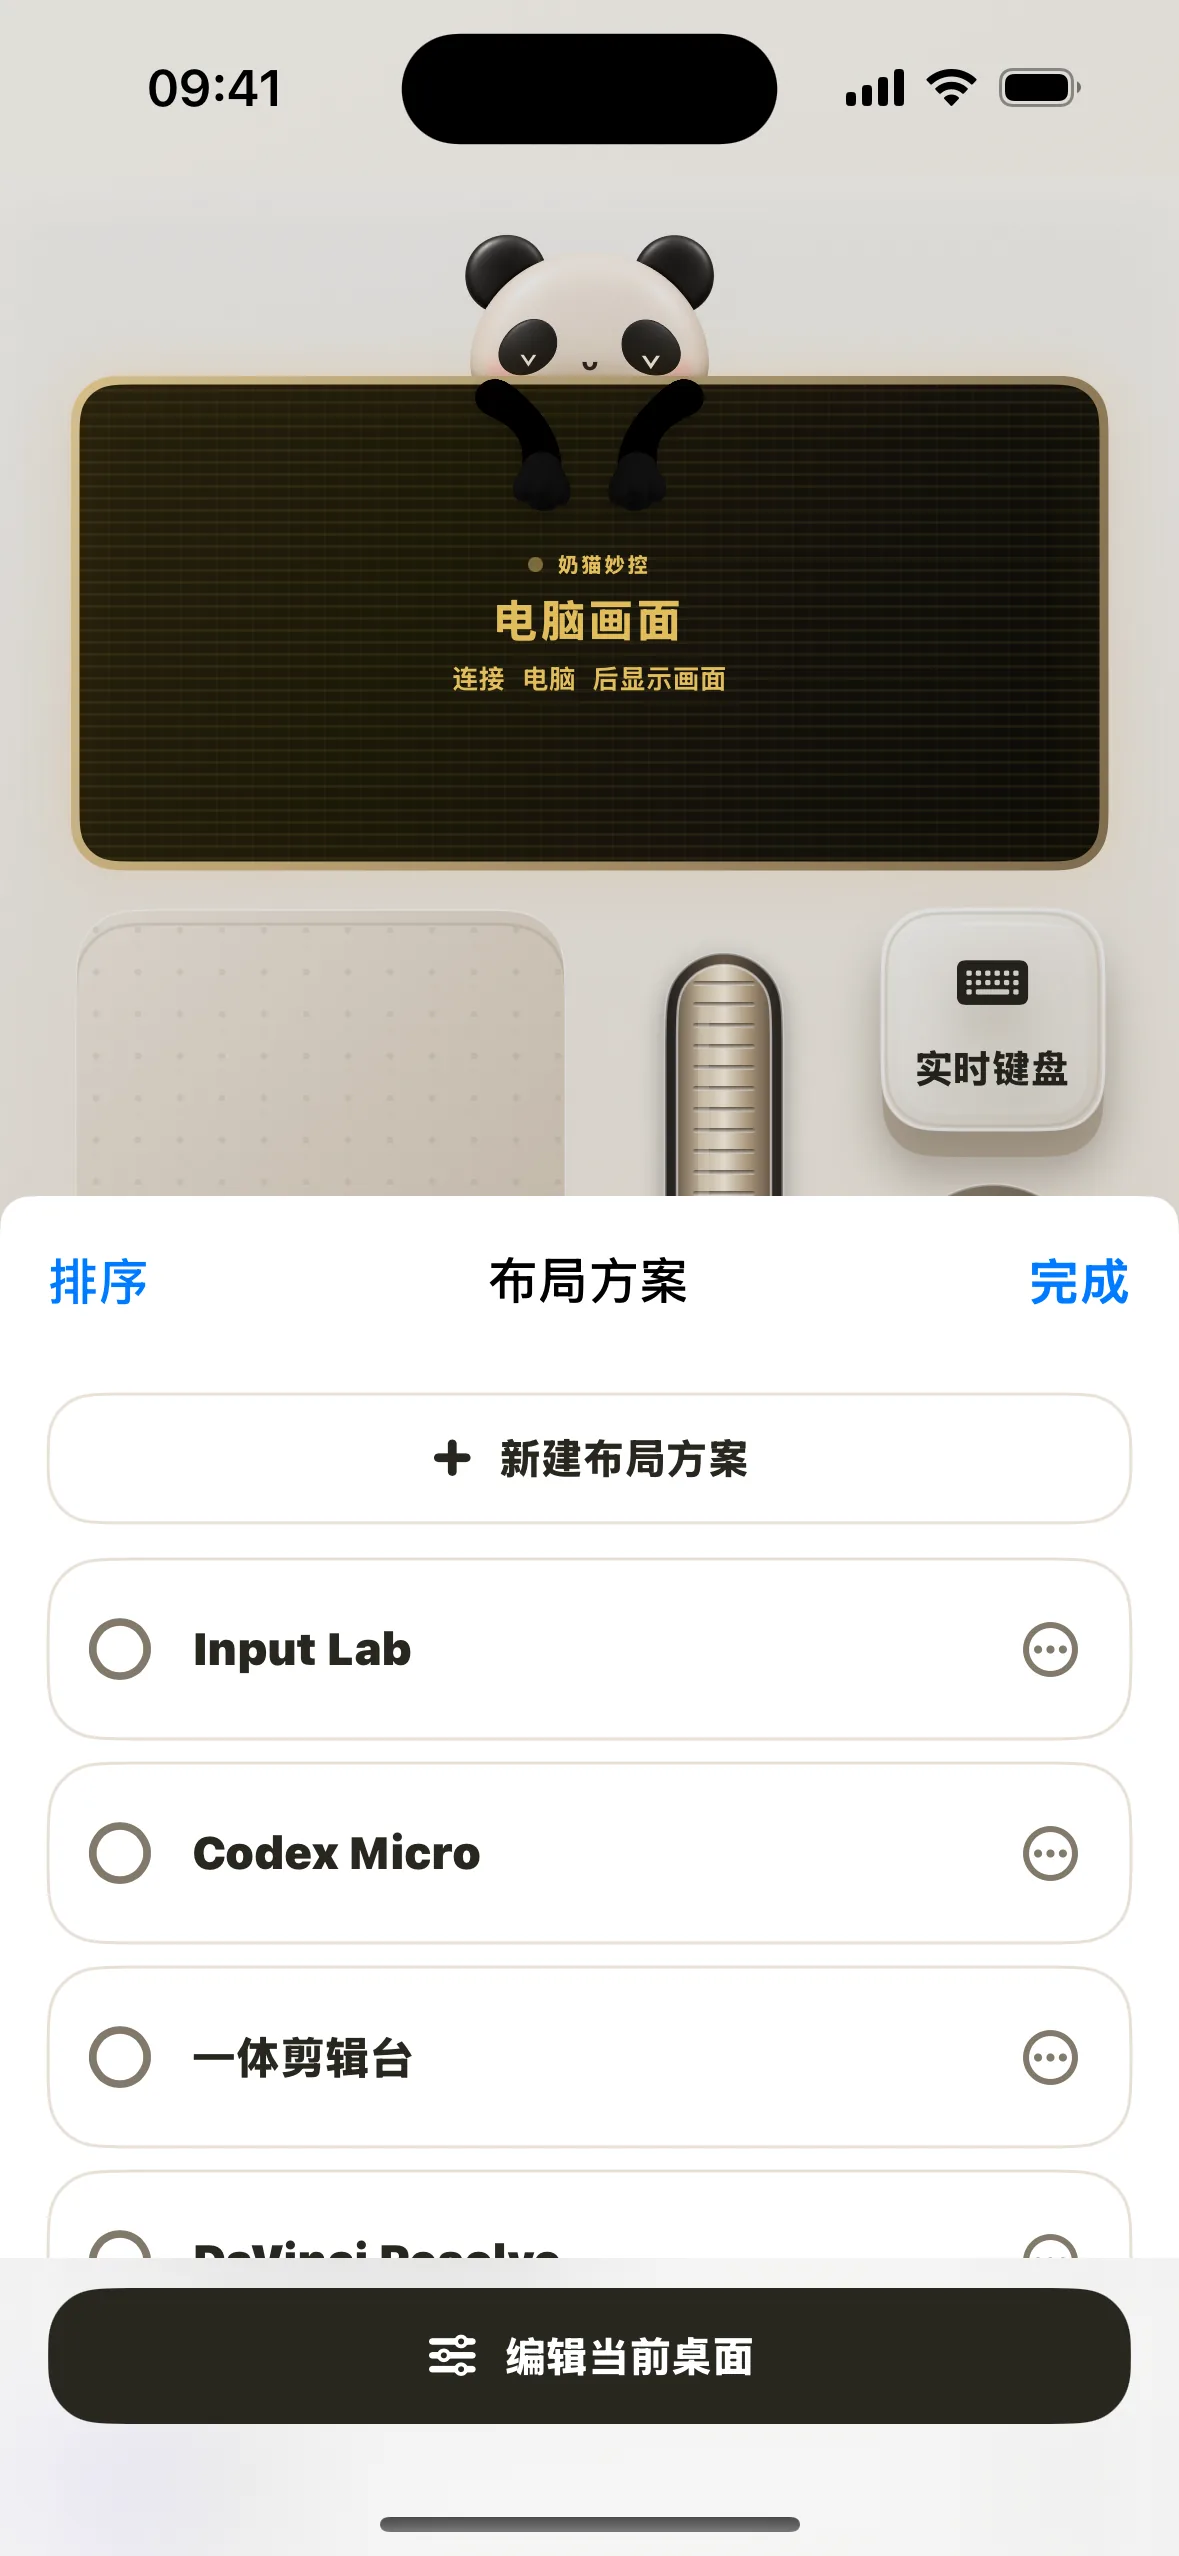
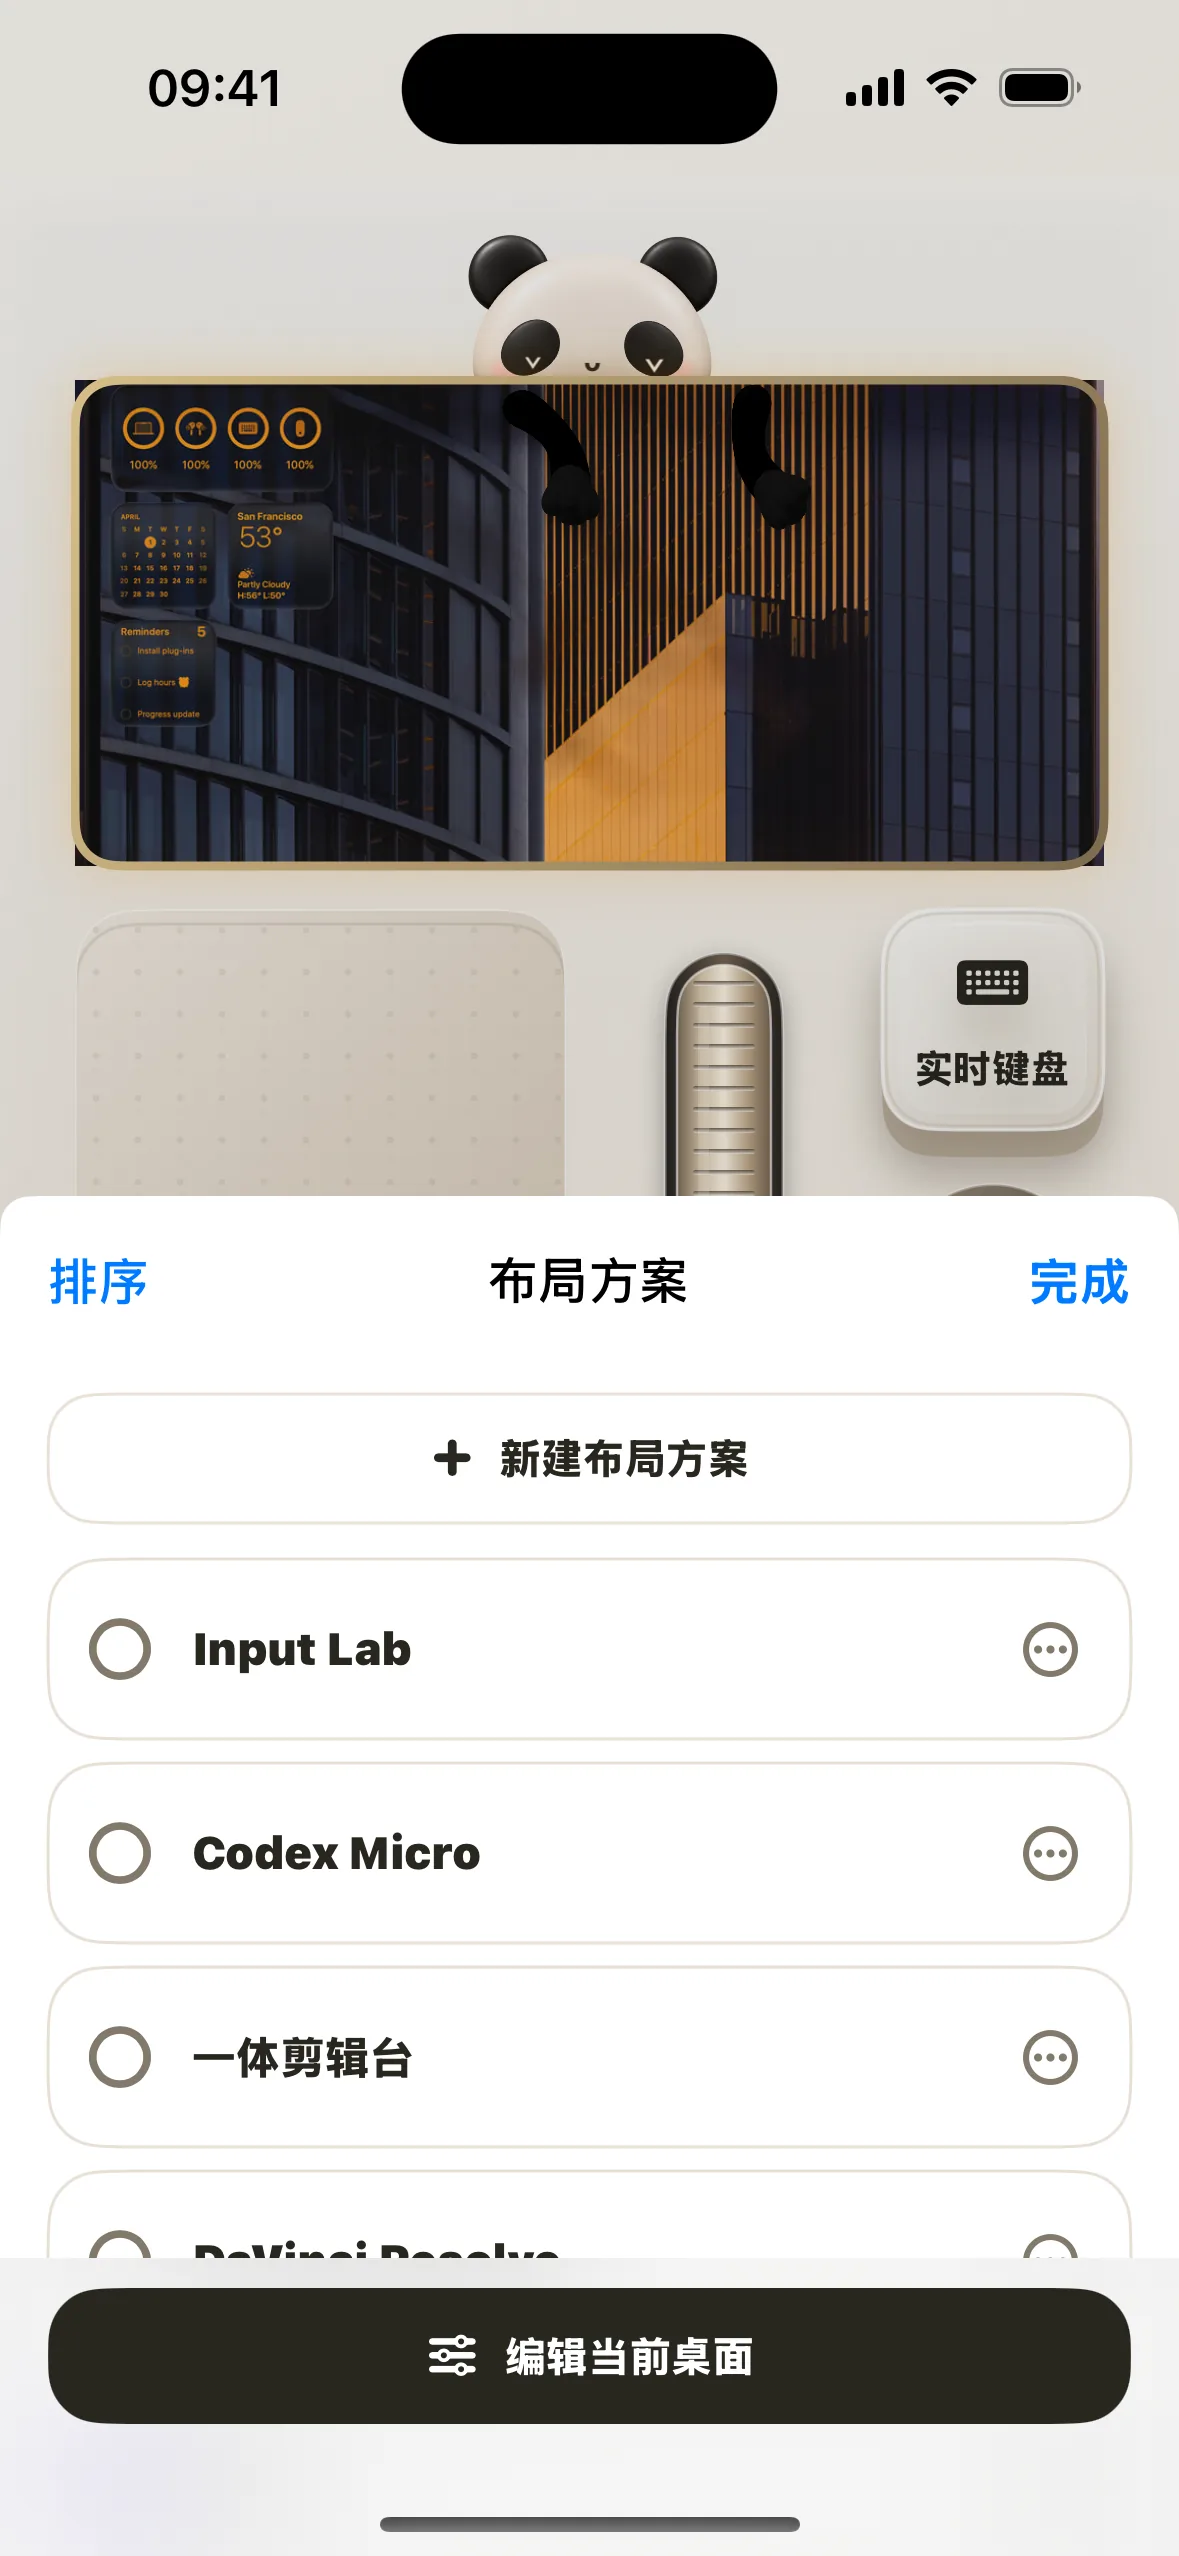
Add remote control showcase

Changed region(s): [[0.0611, 0.0927, 0.9466, 0.34]]

diff --git a/index.html b/index.html
@@ -4,21 +4,21 @@
   <meta charset="utf-8">
   <meta name="viewport" content="width=device-width, initial-scale=1">
   <meta name="theme-color" content="#f6f0e6">
-  <meta name="description" content="奶猫妙控是一款可以自由组合的掌上 Mac 小键盘，支持快捷键、触控板、旋钮、屏幕预览以及 Codex、DaVinci Resolve、PowerPoint、Apple Music 等专属小键盘">
+  <meta name="description" content="奶猫妙控是一款可以自由组合的掌上 Mac 小键盘，支持实时预览 Mac 画面、触控板、键盘输入、快捷键和常用软件专属小键盘">
   <meta name="robots" content="index, follow, max-image-preview:large">
   <meta name="application-name" content="奶猫妙控">
   <meta name="apple-mobile-web-app-title" content="奶猫妙控">
   <meta property="og:type" content="website">
   <meta property="og:site_name" content="奶猫妙控">
   <meta property="og:title" content="奶猫妙控｜自由全能小键盘，跃然掌上">
-  <meta property="og:description" content="自由组合的掌上 Mac 小键盘">
+  <meta property="og:description" content="看着 Mac 画面，用触控板、键盘和自定义小键盘继续操作">
   <meta property="og:image" content="https://cream-deck.vercel.app/assets/app-icon.png">
   <meta property="og:image:alt" content="奶猫妙控熊猫 App 图标">
   <meta property="og:url" content="https://cream-deck.vercel.app/">
   <meta property="og:locale" content="zh_CN">
   <meta name="twitter:card" content="summary_large_image">
   <meta name="twitter:title" content="奶猫妙控｜自由全能小键盘，跃然掌上">
-  <meta name="twitter:description" content="自由组合的掌上 Mac 小键盘">
+  <meta name="twitter:description" content="看着 Mac 画面，用触控板、键盘和自定义小键盘继续操作">
   <meta name="twitter:image" content="https://cream-deck.vercel.app/assets/app-icon.png">
   <link rel="canonical" href="https://cream-deck.vercel.app/">
   <link rel="preconnect" href="https://fonts.googleapis.com">
@@ -40,10 +40,12 @@
     "image": "https://cream-deck.vercel.app/assets/app-icon.png",
     "applicationCategory": "UtilitiesApplication",
     "operatingSystem": "macOS 13+, iOS 17+, iPadOS 17+",
-    "description": "自由组合的掌上 Mac 小键盘",
+    "description": "自由组合的掌上 Mac 小键盘，支持实时画面、触控板、键盘输入和常用软件专属小键盘",
     "featureList": [
       "自定义按键、旋钮与触控板",
-      "Mac 屏幕预览",
+      "Mac 实时画面与全屏查看",
+      "远程触控板、滚动与键盘输入",
+      "窗口按设备比例适配，不拉伸画面",
       "二维码配对",
       "桌面小组件与长按快捷操作",
       "Codex、DaVinci Resolve、PowerPoint 与 Apple Music 专属小键盘"
@@ -70,6 +72,11 @@
         "@type": "Question",
         "name": "为什么看不到 Mac 画面？",
         "acceptedAnswer": { "@type": "Answer", "text": "屏幕预览需要额外允许屏幕录制，普通按键、旋钮和触控板不受影响" }
+      },
+      {
+        "@type": "Question",
+        "name": "可以远程做什么？",
+        "acceptedAnswer": { "@type": "Answer", "text": "可以查看 Mac 实时画面，用触控板移动光标和滚动，也可以输入文字、使用快捷键。窗口会按设备比例适配，画面不会被拉伸" }
       }
     ]
   }
@@ -85,6 +92,7 @@
     </a>
     <nav aria-label="主导航">
       <a href="#layouts">小键盘</a>
+      <a href="#remote">远程</a>
       <a href="#how">连接</a>
       <a href="#scenarios">场景</a>
       <a href="#faq">问题</a>
@@ -153,6 +161,22 @@
         <img data-layout-image src="assets/screens/control-codex.webp" alt="奶猫妙控 Codex 控制台" width="1179" height="2556" loading="lazy">
         <figcaption><strong data-layout-name>Codex</strong><span data-layout-description>Agent、推理强度、批准、语音和发送</span></figcaption>
       </figure>
+    </section>
+
+    <section class="remote-section" id="remote">
+      <figure class="remote-shot">
+        <img src="assets/screens/control-studio.webp" alt="奶猫妙控显示 Mac 实时画面、触控板、滚轮和键盘入口" width="1179" height="2556" loading="lazy">
+      </figure>
+      <div class="remote-copy">
+        <h2>看着 Mac 画面，直接操作</h2>
+        <p>看实时画面，移动光标、滚动和输入。窗口会自动适配，不会把画面挤扁</p>
+        <div class="remote-features">
+          <article><h3>看画面</h3><p>轻点预览，展开全屏查看</p></article>
+          <article><h3>动光标</h3><p>触控、点按和滚动都能完成</p></article>
+          <article><h3>继续输入</h3><p>输入文字，也能使用常用快捷键</p></article>
+          <article><h3>不拉伸</h3><p>窗口按设备比例适配，文字和图像保持原样</p></article>
+        </div>
+      </div>
     </section>
 
     <section class="product-section" id="control">
@@ -277,6 +301,7 @@
         <details><summary>需要连同一个 Wi‑Fi 吗？</summary><p>需要，手机或平板与 Mac 要连接同一个 Wi‑Fi</p></details>
         <details><summary>Mac 为什么没有反应？</summary><p>在“系统设置 → 隐私与安全性 → 辅助功能”中允许奶猫妙控</p></details>
         <details><summary>为什么看不到 Mac 画面？</summary><p>屏幕预览需要额外允许“屏幕录制”，普通按键、旋钮和触控板不受影响</p></details>
+        <details><summary>可以远程做什么？</summary><p>可以看 Mac 实时画面，移动光标、滚动和输入。窗口会按设备比例适配，画面不会被拉伸</p></details>
         <details><summary>怎么最快打开扫码？</summary><p>长按 App 图标选择“扫码配对”，或点按奶猫妙控小组件</p></details>
         <details><summary>换一台 Mac 怎么配对？</summary><p>打开“设备”，扫描新 Mac 上的二维码</p></details>
         <details><summary>控制内容会上传吗？</summary><p>不会，控制指令只在已经配对的设备之间传输</p></details>

diff --git a/styles.css b/styles.css
@@ -34,7 +34,7 @@ a:focus-visible, button:focus-visible, summary:focus-visible, [tabindex]:focus-v
 .site-header nav a:hover { color: var(--ink); }
 .header-download { justify-self: end; padding: .65rem 1rem; border-radius: .8rem; background: var(--ink); color: white; font-size: .8125rem; font-weight: 800; }
 
-.hero, .layouts-section, .product-section, .how-section, .quick-section, .scenarios-section, .mac-section, .faq-section, .download-section {
+.hero, .layouts-section, .remote-section, .product-section, .how-section, .quick-section, .scenarios-section, .mac-section, .faq-section, .download-section {
   min-height: calc(100svh - var(--header));
   padding: clamp(2.5rem, 5.5vh, 4.25rem) max(1.5rem, calc((100vw - var(--max)) / 2));
 }
@@ -95,6 +95,16 @@ a:focus-visible, button:focus-visible, summary:focus-visible, [tabindex]:focus-v
 .layout-preview figcaption { width: min(100%, 24rem); margin-top: .85rem; display: flex; align-items: baseline; justify-content: space-between; gap: 1rem; }
 .layout-preview figcaption strong { font-size: .9rem; }
 .layout-preview figcaption span { color: var(--muted); font-size: .75rem; text-align: right; }
+
+.remote-section { display: grid; grid-template-columns: .82fr 1.18fr; gap: clamp(3rem, 8vw, 7rem); align-items: center; background: var(--blue-cream); }
+.remote-shot { display: grid; place-items: center; }
+.remote-shot img { width: auto; height: min(68svh, 38rem); max-width: 100%; object-fit: contain; border: .1rem solid rgba(33,31,26,.78); border-radius: clamp(2.3rem, 3.3vw, 3.1rem); background: #171713; box-shadow: 0 1.6rem 3.2rem rgba(48,38,23,.16); }
+.remote-copy h2 { max-width: 42rem; font-size: clamp(2.6rem, 4.1vw, 3.75rem); }
+.remote-copy > p { max-width: 39rem; margin-top: 1.15rem; color: var(--muted); font-size: 1.05rem; }
+.remote-features { margin-top: 1.65rem; border-top: .0625rem solid var(--line); }
+.remote-features article { padding: .95rem 0; display: grid; grid-template-columns: 6.5rem 1fr; gap: 1.2rem; border-bottom: .0625rem solid var(--line); }
+.remote-features h3 { font-size: 1rem; }
+.remote-features p { color: var(--muted); font-size: .85rem; }
 
 .product-section { display: grid; grid-template-columns: .82fr 1.18fr; gap: clamp(3rem, 8vw, 7rem); align-items: center; background: var(--sand); }
 .product-shot { display: grid; place-items: center; }
@@ -196,7 +206,7 @@ footer small { grid-column: 1 / -1; margin-top: 1rem; color: rgba(33,31,26,.48);
 
 @media (max-width: 56.25rem) {
   :root { --header: 4rem; }
-  .hero, .layouts-section, .product-section, .how-section, .quick-section, .scenarios-section, .mac-section, .faq-section, .download-section { min-height: 0; padding: 4.9rem 1.25rem; }
+  .hero, .layouts-section, .remote-section, .product-section, .how-section, .quick-section, .scenarios-section, .mac-section, .faq-section, .download-section { min-height: 0; padding: 4.9rem 1.25rem; }
   .site-header { min-height: var(--header); padding: .5rem .875rem; grid-template-columns: 1fr auto; }
   .site-header nav { display: none; }
   .brand img { width: 2.375rem; height: 2.375rem; border-radius: .7rem; }
@@ -218,13 +228,17 @@ footer small { grid-column: 1 / -1; margin-top: 1rem; color: rgba(33,31,26,.48);
   .hero-trackpad { display: none; }
   .hero-knob { top: 3%; right: 28%; width: 4.3rem; }
   .hero-slider { right: 25%; bottom: 13%; width: 7rem; height: 2rem; }
-  .layouts-section, .product-section, .quick-section, .mac-section { grid-template-columns: 1fr; }
+  .layouts-section, .remote-section, .product-section, .quick-section, .mac-section { grid-template-columns: 1fr; }
   .layouts-section { gap: 2.25rem; padding-top: 3.9rem; padding-bottom: 3.9rem; overflow: hidden; }
   .layout-tabs { width: 100vw; max-width: none; display: flex; margin: 1.5rem calc(50% - 50vw) 0; padding: 0 1.25rem .45rem; gap: .55rem; overflow-x: auto; scroll-padding-inline: 1.25rem; scroll-snap-type: x proximity; }
   .layout-tab { width: max-content; min-width: 9.5rem; min-height: 3.25rem; flex: none; padding: .45rem .65rem; grid-template-columns: 2rem auto; gap: .55rem; scroll-snap-align: start; }
   .layout-tab img { width: 2rem; height: 2rem; border-radius: .55rem; }
   .layout-preview { margin-top: 0; }
   .layout-preview > img { width: auto; height: min(48svh, 27rem); max-width: 72vw; }
+  .remote-section { gap: 2.25rem; }
+  .remote-copy { order: -1; text-align: center; }
+  .remote-copy > p { margin-right: auto; margin-left: auto; }
+  .remote-shot img { width: min(76vw, 18.75rem); height: auto; }
   .product-shot > img { width: min(76vw, 18.75rem); height: auto; }
   .product-shot { order: 2; }
   .how-section { grid-template-columns: 1fr; grid-template-areas: "eyebrow" "title" "art" "steps"; grid-template-rows: auto; }
@@ -253,13 +267,14 @@ footer small { grid-column: 1 / -1; margin-top: 1rem; color: rgba(33,31,26,.48);
 
 @media (max-width: 43.75rem) {
   .header-download { font-size: .75rem; }
-  .layout-copy h2, .quick-copy h2, .role-panel h2, .faq-section > h2, .product-copy h2, .how-section > h2, .mac-section h2 { font-size: clamp(2rem, 9vw, 2.45rem); }
+  .layout-copy h2, .quick-copy h2, .role-panel h2, .faq-section > h2, .remote-copy h2, .product-copy h2, .how-section > h2, .mac-section h2 { font-size: clamp(2rem, 9vw, 2.45rem); }
   .hero-key-small { display: none; }
   .hero-key-dark { left: 30%; }
   .hero-slider { right: 28%; bottom: 8%; }
   .quick-screens { margin-right: -1.25rem; grid-auto-flow: column; grid-template-columns: none; grid-auto-columns: min(75vw, 18rem); justify-content: start; gap: 1.25rem; overflow-x: auto; scroll-snap-type: x mandatory; padding: 0 1.25rem 1rem 0; }
   .quick-screens figure { scroll-snap-align: start; }
   .feature-list article { grid-template-columns: 1fr; gap: .35rem; }
+  .remote-features article { grid-template-columns: 1fr; gap: .35rem; text-align: center; }
   .role-tabs { gap: .25rem; padding: .25rem; }
   .role-tabs button { padding: .62rem .2rem; }
   .role-tabs strong { font-size: .82rem; }

diff --git a/script.js b/script.js
@@ -462,6 +462,11 @@ const initMotion = () => {
       .from('.product-copy .eyebrow, .product-copy h2, .product-copy > p', { ...reveal, y: 24, stagger: .07 }, '-=.38')
       .from('.feature-list article', { ...reveal, y: 20, stagger: .075 }, '-=.32');
 
+    gsap.timeline({ scrollTrigger: { trigger: '.remote-section', start: 'top 76%', once: true } })
+      .from('.remote-shot', { ...reveal, x: desktop ? -48 : 0, rotation: -2 })
+      .from('.remote-copy h2, .remote-copy > p', { ...reveal, y: 24, stagger: .07 }, '-=.38')
+      .from('.remote-features article', { ...reveal, y: 20, stagger: .075 }, '-=.32');
+
     gsap.timeline({ scrollTrigger: { trigger: '.how-section', start: 'top 74%', once: true } })
       .from('.connection-art', { ...reveal, x: desktop ? -54 : 0, rotation: -4, scale: .95 })
       .from('.how-section > .eyebrow, .how-section > h2', { ...reveal, y: 24, stagger: .07 }, '-=.4')

diff --git a/assets/screens/SOURCES.md b/assets/screens/SOURCES.md
@@ -1,0 +1,5 @@
+# Screenshot sources
+
+The Mac desktop shown inside the automated `control-studio` screenshot is a crop of Apple Newsroom's downloadable macOS Tahoe media image and is used only as a screenshot-mode placeholder
+
+- [macOS Tahoe 26 makes the Mac more capable, productive, and intelligent than ever](https://www.apple.com/newsroom/2025/06/macos-tahoe-26-makes-the-mac-more-capable-productive-and-intelligent-than-ever/)
